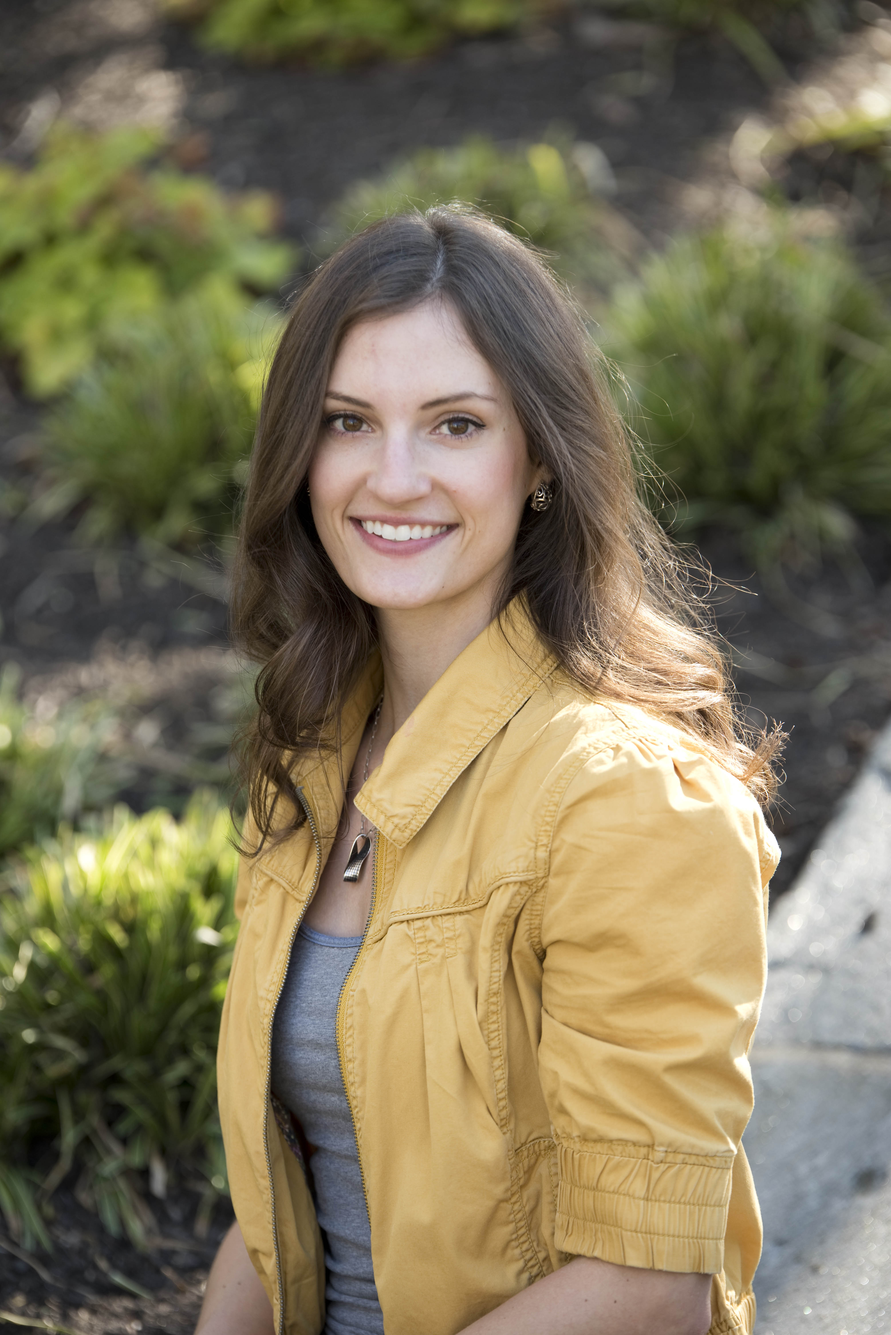
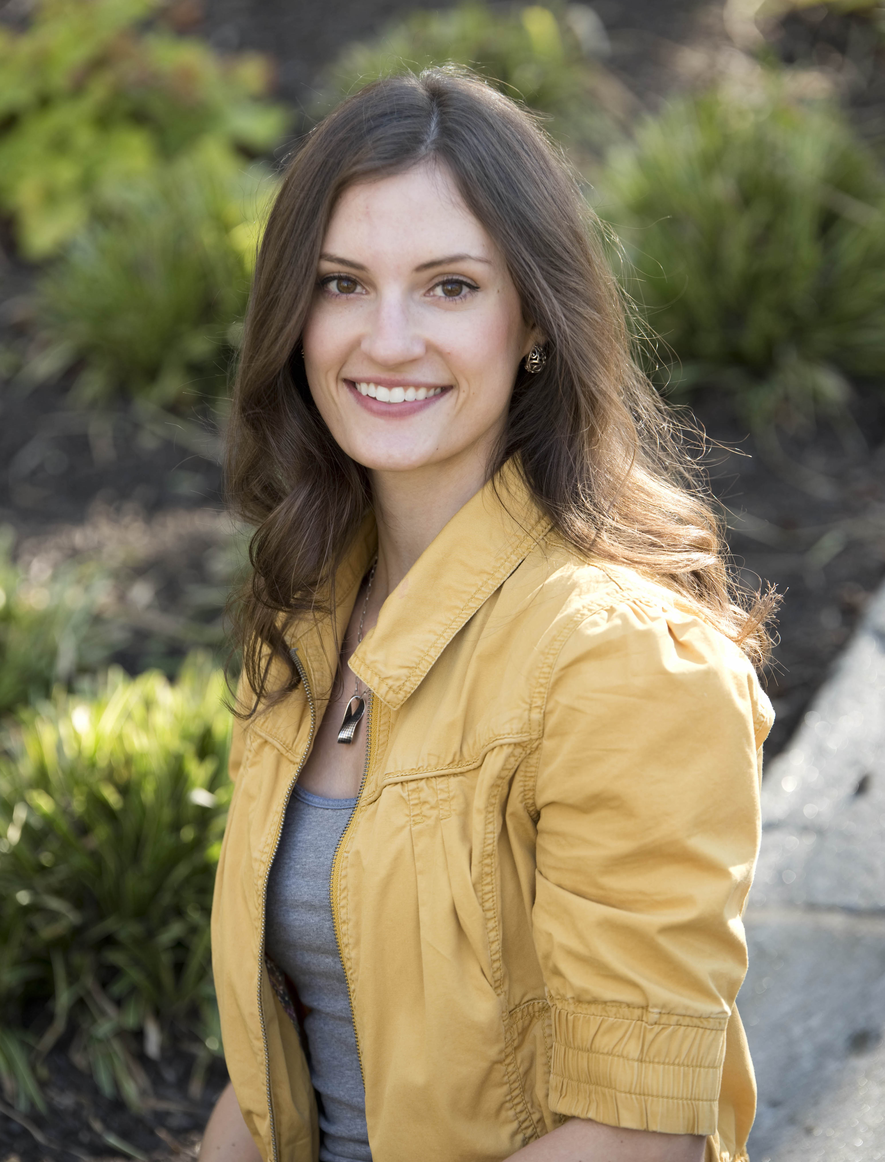
Update to speakers page

diff --git a/speakers.md b/speakers.md
@@ -13,7 +13,7 @@ title: Invited Faculty Speakers
 
 <h2>Kathryn Bryant</h2>
 
-<p style="text-align:justify"><img src="{{ site.baseurl }}/BryantAlt.jpg" align="right" width="150" img style="margin: 10px 0 0 15px"/>Kathryn Bryant is a Visiting Assistant Professor of Mathematics at Colorado College. She received her Ph.D. from Bryn Mawr College in May 2016 and is an alumna of Northern Arizona University. Her primary area of research is in low-dimensional topology, within which she studies questions in the intersection of knot theory and 4-manifold theory. Kathryn's secondary area of research is in applied topology, with a current project looking at the applications of persistent homology to topographical pattern recognition in geophysical (geological) data. When she is not thinking about math in its varied capacities, she enjoys running, yoga, and finding and consuming the best almond croissants in town.</p>
+<p style="text-align:justify"><img src="{{ site.baseurl }}/Bryant.jpg" align="right" width="150" img style="margin: 10px 0 0 15px"/>Kathryn Bryant is a Visiting Assistant Professor of Mathematics at Colorado College. She received her Ph.D. from Bryn Mawr College in May 2016 and is an alumna of Northern Arizona University. Her primary area of research is in low-dimensional topology, within which she studies questions in the intersection of knot theory and 4-manifold theory. Kathryn's secondary area of research is in applied topology, with a current project looking at the applications of persistent homology to topographical pattern recognition in geophysical (geological) data. When she is not thinking about math in its varied capacities, she enjoys running, yoga, and finding and consuming the best almond croissants in town.</p>
 
 <p style="text-align:justify"><b>Title:</b> Where Geometry and Topology Collide: The Unsolved (!) Inscribed Square Problem</p>
 
